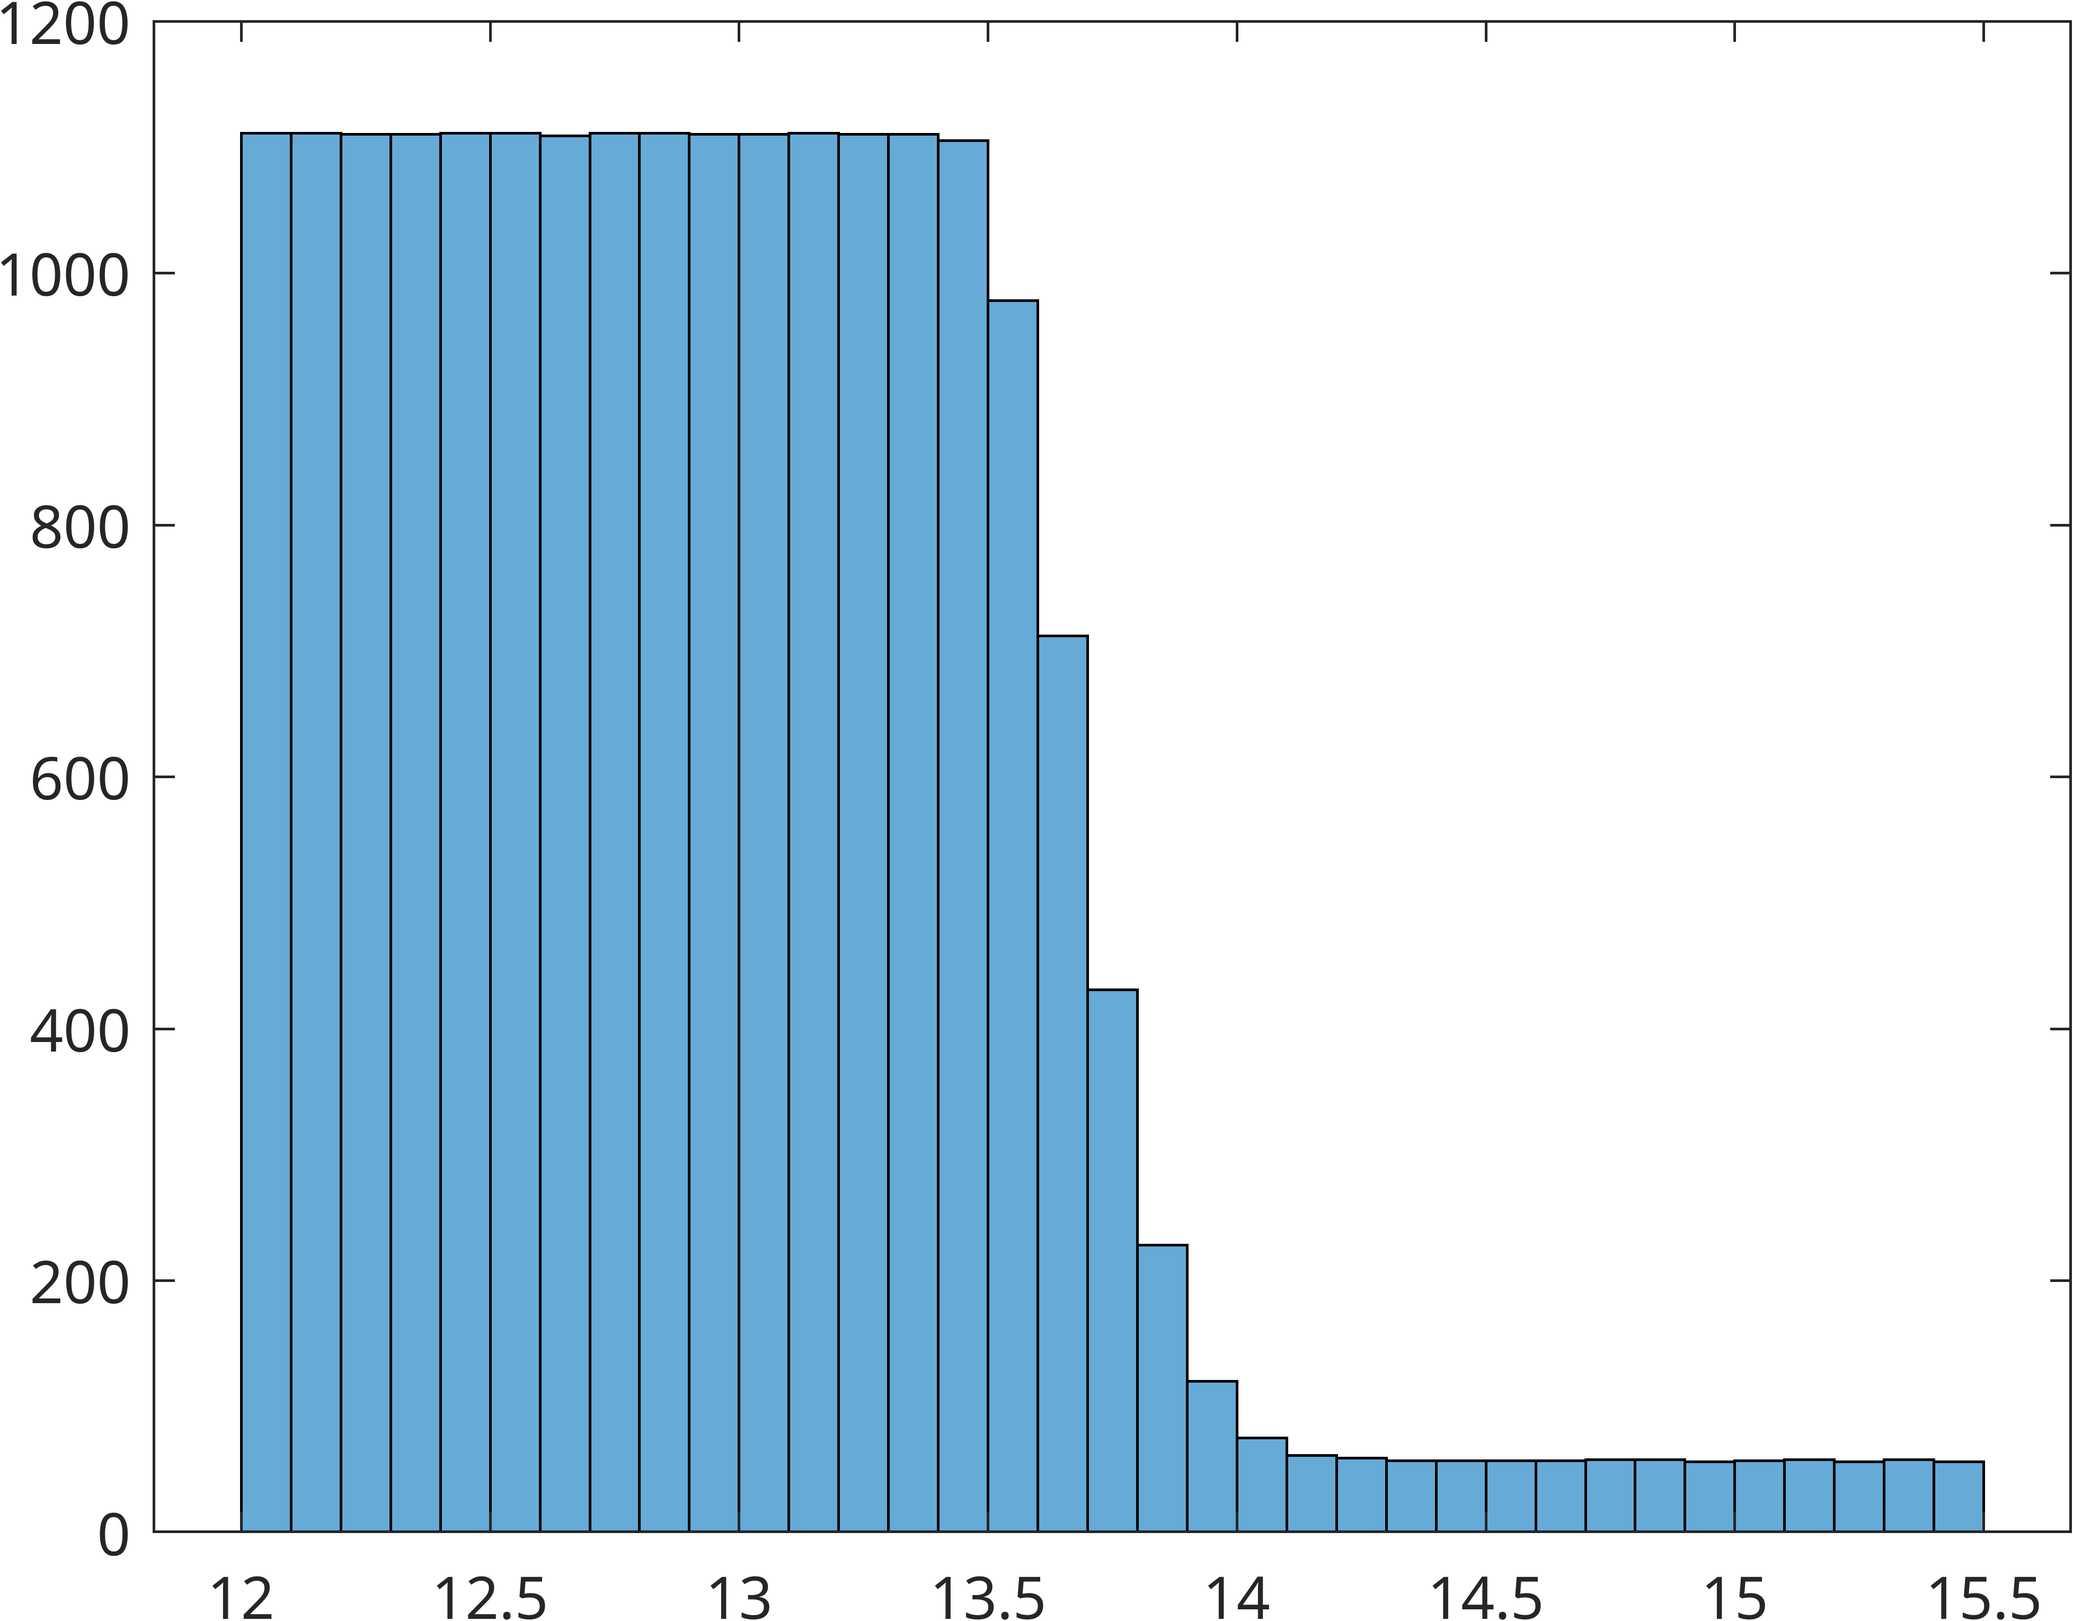
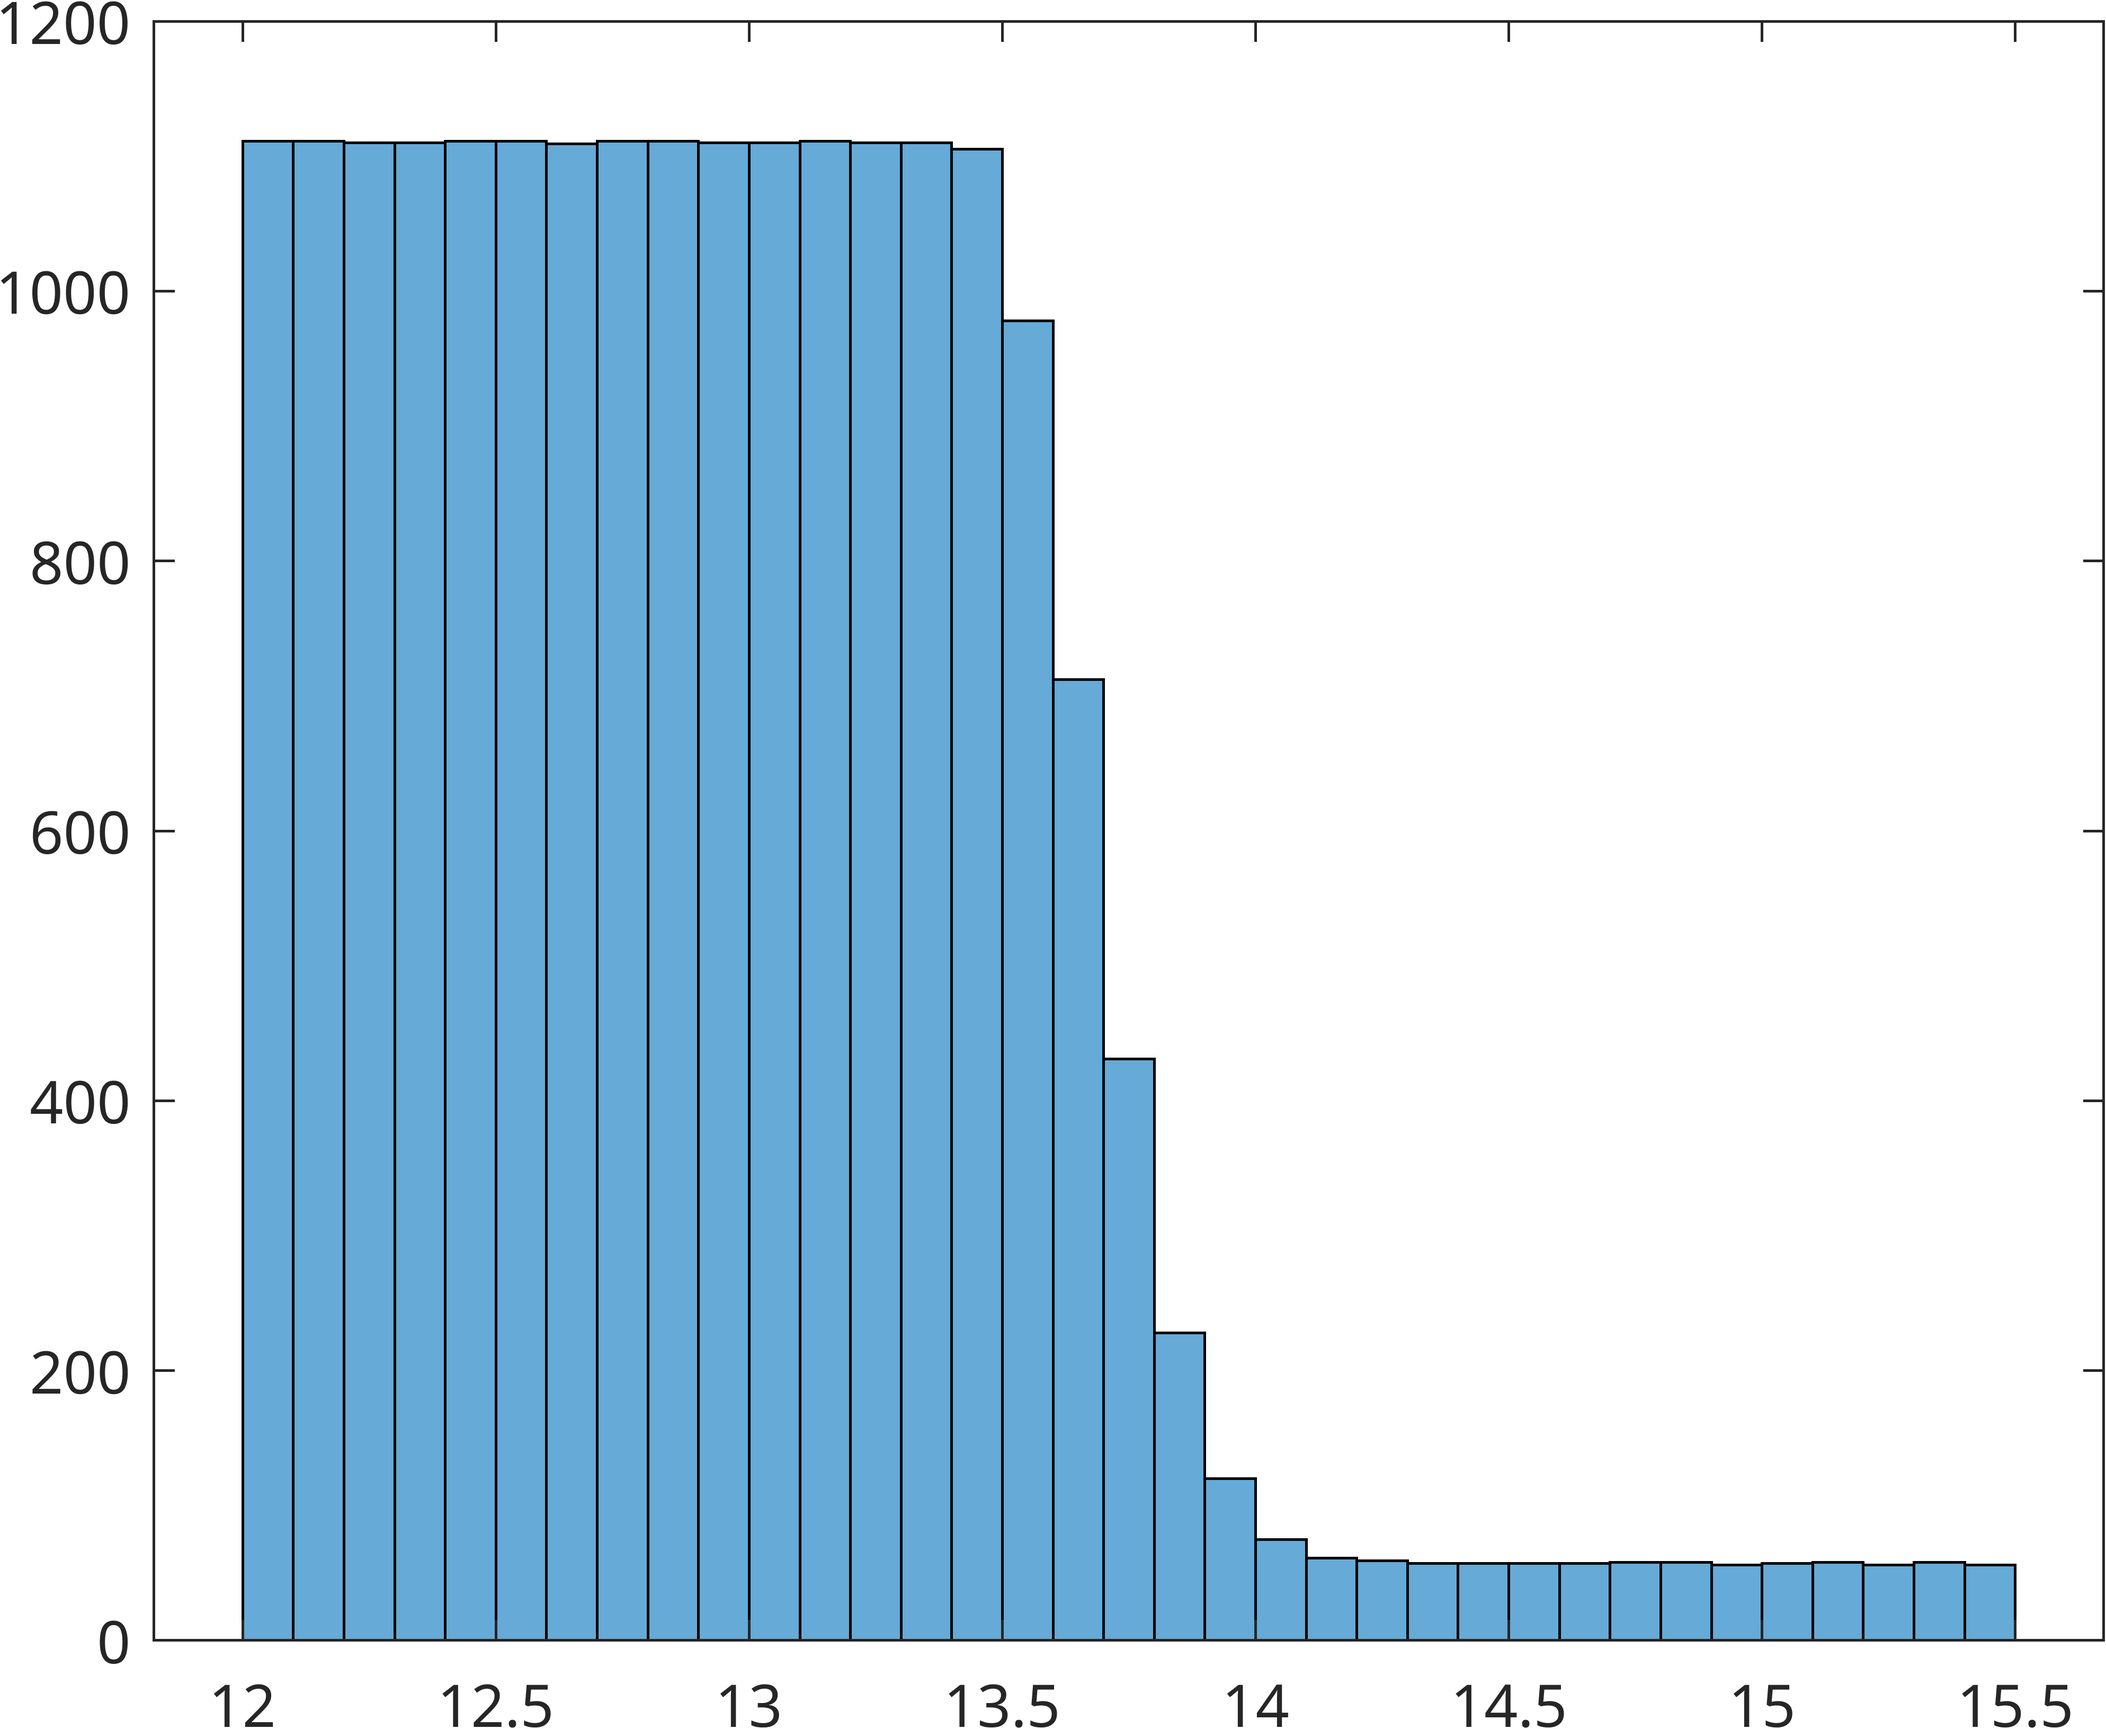
Gannon's updated version

diff --git a/MgII/miningDR7/run_script_hpcc_dr7.m b/MgII/miningDR7/run_script_hpcc_dr7.m
@@ -1,8 +1,8 @@
 tic
 fprintf('Setting paramters ...\n')
 
-cataloging = 0;
-preloading = 0;
+cataloging = 1;
+preloading = 1;
 learning   = 1;
 sampling   = 1;
 processing = 1;
@@ -95,7 +95,7 @@ if learning==1
     preloaded_qsos_cat_name= sprintf('%s/preloaded_qsos_%s.mat',... 
                                processed_directory(release), training_set_name);
     %learn_qso_model
-    learning_gannon2
+    learning_gannon
 end
 
 

diff --git a/MgII/miningDR7/process_qsos_dr7.m b/MgII/miningDR7/process_qsos_dr7.m
@@ -488,7 +488,7 @@ variables_to_save = {'release', 'training_set_name', ...
     'model_posteriors', 'p_no_MgII', 'p_MgIIL1' ...
     'map_z_MgIIL2', 'map_N_MgIIL2', 'map_sigma_MgIIL2' ,'p_MgII', 'REW_2796_dr7'};
 
-filename = sprintf('%s/processed_sigma_125_Spline_%s.mat', ...
+filename = sprintf('%s/processed_sigma_125_Spline_2200-2300_%s.mat', ...
     processed_directory(release), ...
     testing_set_name);
 

diff --git a/MgII/miningDR7/learning_gannon.m b/MgII/miningDR7/learning_gannon.m
@@ -42,7 +42,7 @@ rest_fluxes          = nan(num_quasars, num_rest_pixels);
 rest_noise_variances = nan(num_quasars, num_rest_pixels);
 is_empty             = false(num_quasars, 1);
 
-norm_window = (rest_wavelengths > 2180 & rest_wavelengths < 2250);
+norm_window = (rest_wavelengths > 2200 & rest_wavelengths < 2300);
 
 for i = 1:num_quasars
   z_qso = z_qsos(i);

diff --git a/MgII/miningDR7/StatTestGannon.m b/MgII/miningDR7/StatTestGannon.m
@@ -1,6 +1,6 @@
 %% StatTesting - Gannon Hughes
 % Loading Data
-        load('data/dr7/processed/processed_sigma_125_binednorm_1%-Masking-All-samp-20k.mat');
+        load('data/dr7/processed/processed_sigma_125_Spline_2200-2300_1%-Masking-All-samp-20k.mat');
 
 
 % Indicies of Randomly selected quasars
